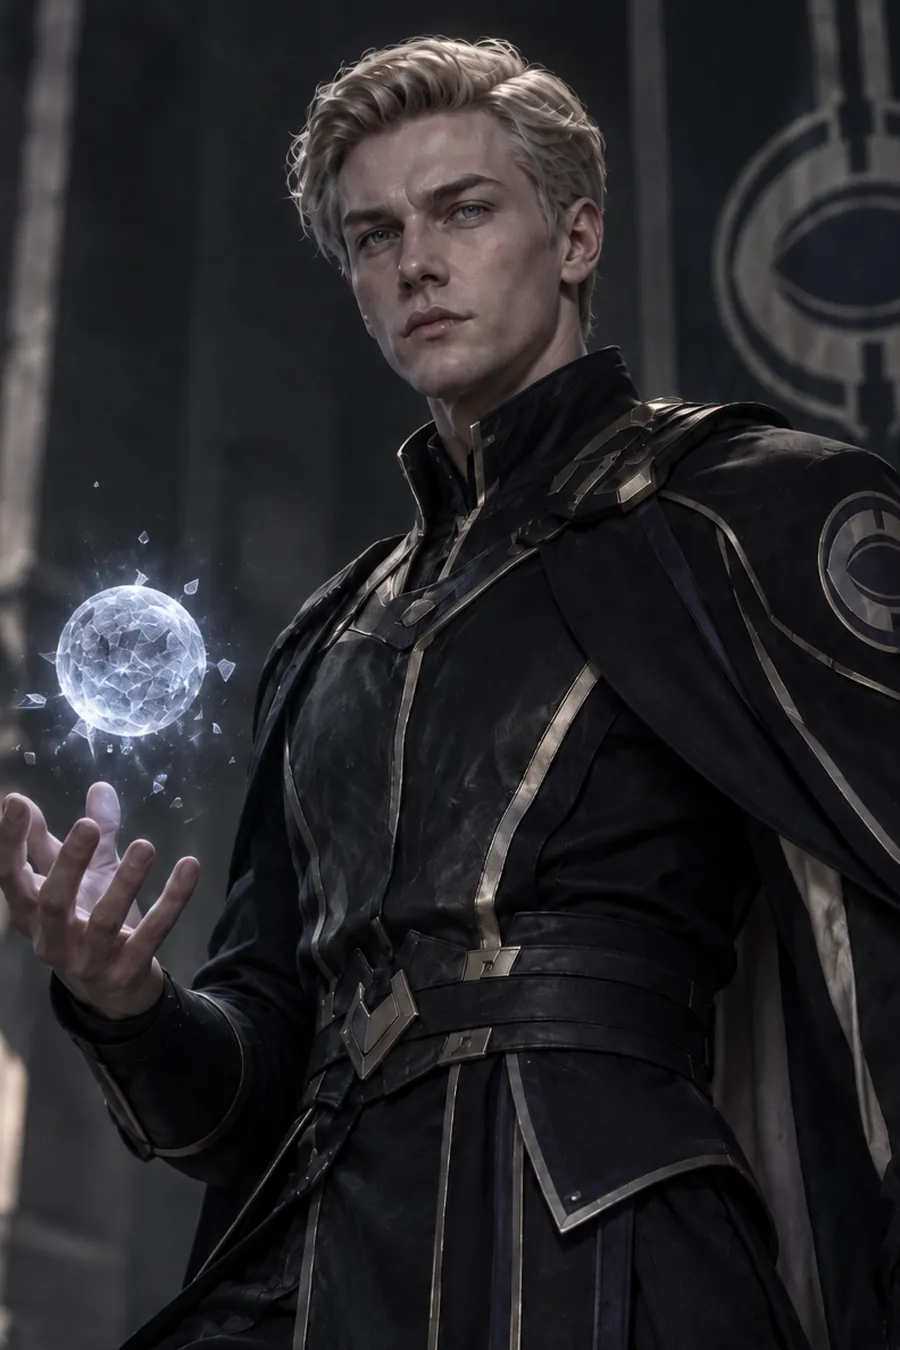
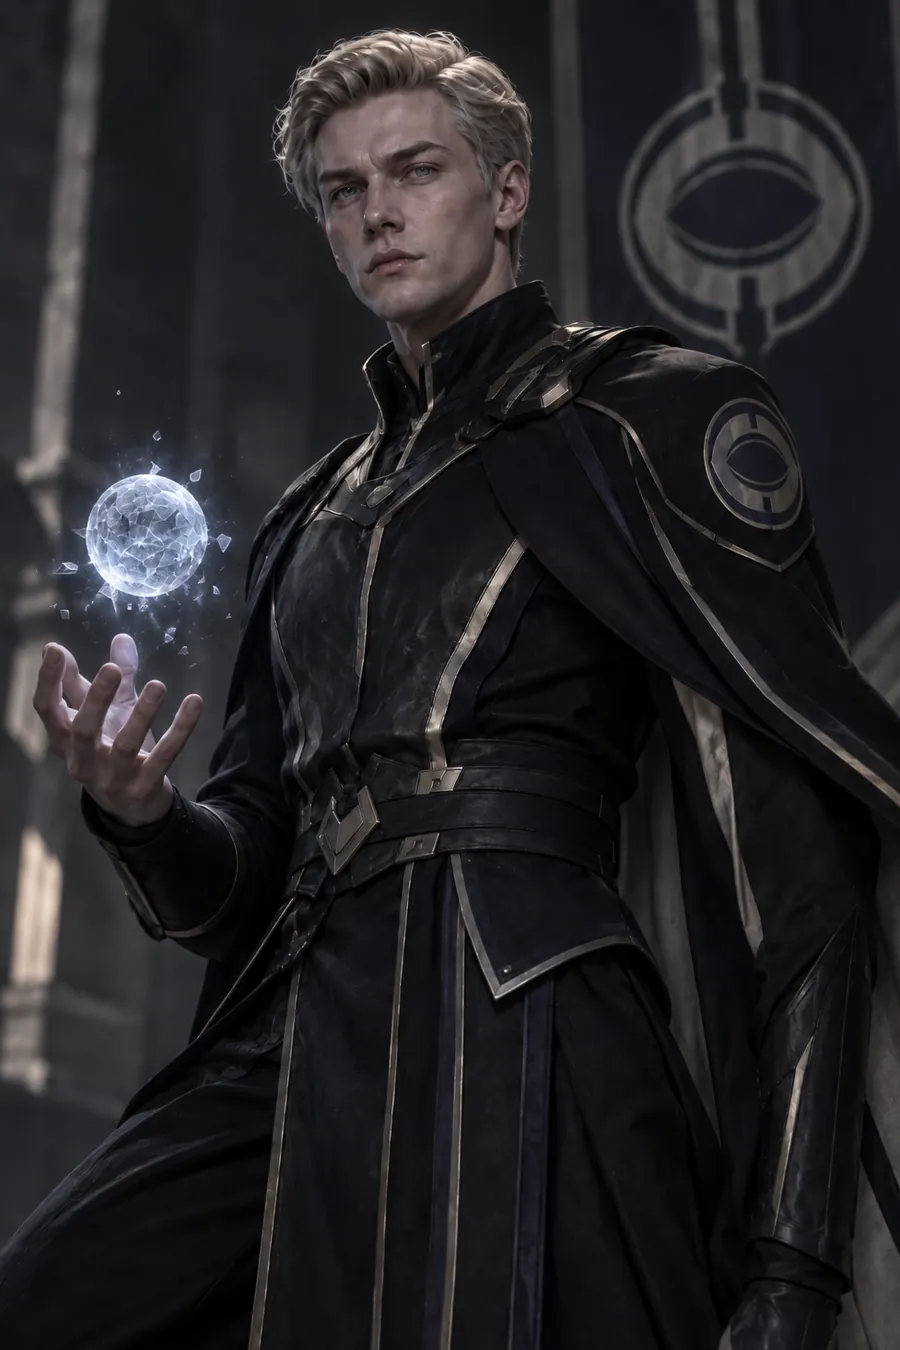
Encuadre mas alejado en los cuatro retratos recortados
Pedido de Escandar. Kier, Lina, Elian y Daren se rehacen con la cara al 15% del
alto en vez del 18,5-23,5%: entran el martillo, la armadura entera y la esfera
con su contexto. La cara baja a 68 px, justo por debajo del umbral de 70 que
veniamos usando, pero las figuras siguen reconociendose por silueta y armadura.
Ian y los Soryn ya estaban enteros: no habia nada que alejar.

Ademas se sincronizan los width/height declarados con las imagenes reales: Ian
figuraba 900x1200 siendo 900x1350, y el grupo 4320x2160 siendo 2400x1200. Los
dos habrian hecho saltar la maquetacion al cargar.

Los recortes cerrados quedan como *.webp.cerca por si hay que volver.

diff --git a/content.js b/content.js
@@ -17,14 +17,14 @@ window.BOOK_DATA = {
   // Retratos de grupo: una sola imagen ancha que se abre en grande, con los
   // nombres al pie. Mismo bloqueo por capitulo que los retratos sueltos.
   groups: [
-    { id: "dientes", name: "Dientes de Ceniza", file: "assets/personajes/dientes-de-ceniza.webp", w: 4320, h: 2160, unlock: 25,
+    { id: "dientes", name: "Dientes de Ceniza", file: "assets/personajes/dientes-de-ceniza.webp", w: 2400, h: 1200, unlock: 25,
       caption: "Hal'Verkan · Dra'Vik · Rask · Bryn'Veth · Tor'Vaer · Yorn'Taz" }
   ],
   characters: [
-    { id: "ian", name: "Ian de Vries", file: "assets/personajes/ian-de-vries.webp", w: 900, h: 1200, unlock: 1 },
-    { id: "elian", name: "Elian Nahl", file: "assets/personajes/elian-nahl.webp", w: 900, h: 1200, unlock: 1 },
-    { id: "kier", name: "Kier de Vries", file: "assets/personajes/kier-de-vries.webp", w: 900, h: 1199, unlock: 1 },
-    { id: "lina", name: "Lina Aurelian", file: "assets/personajes/lina-aurelian.webp", w: 900, h: 1350, unlock: 1 },
+    { id: "ian", name: "Ian de Vries", file: "assets/personajes/ian-de-vries.webp", w: 900, h: 1350, unlock: 1 },
+    { id: "elian", name: "Elian Nahl", file: "assets/personajes/elian-nahl.webp", w: 900, h: 1350, unlock: 1 },
+    { id: "kier", name: "Kier de Vries", file: "assets/personajes/kier-de-vries.webp", w: 900, h: 1351, unlock: 1 },
+    { id: "lina", name: "Lina Aurelian", file: "assets/personajes/lina-aurelian.webp", w: 900, h: 1348, unlock: 1 },
     { id: "daren", name: "Daren de Vries", file: "assets/personajes/daren-de-vries.webp", w: 900, h: 1350, unlock: 1 },
     { id: "aldren", name: "Aldren Soryn", epithet: "El Heredero de la Luna Bélica", file: "assets/personajes/aldren-soryn.webp", w: 900, h: 1195, unlock: 23 },
     { id: "yseva", name: "Yseva Soryn", epithet: "La Astrónoma de la Guerra", file: "assets/personajes/yseva-soryn.webp", w: 900, h: 1125, unlock: 31 },

diff --git a/sw.js b/sw.js
@@ -1,6 +1,6 @@
 // REGLA (heredada del Libro I): todo cambio a index.html, styles.css, content.js,
 // app.js o nieve.js exige subir SHELL_CACHE antes de publicar.
-const SHELL_CACHE = "el-ciclo-inmovil-libro2-shell-v18";
+const SHELL_CACHE = "el-ciclo-inmovil-libro2-shell-v19";
 // Mismo nombre que AUDIO_CACHE en app.js ("Guardar sin conexión"). Si no
 // coinciden, el activate de abajo borra los capitulos guardados. No subirlo sin
 // motivo: vacia lo que cada oyente guardo.
